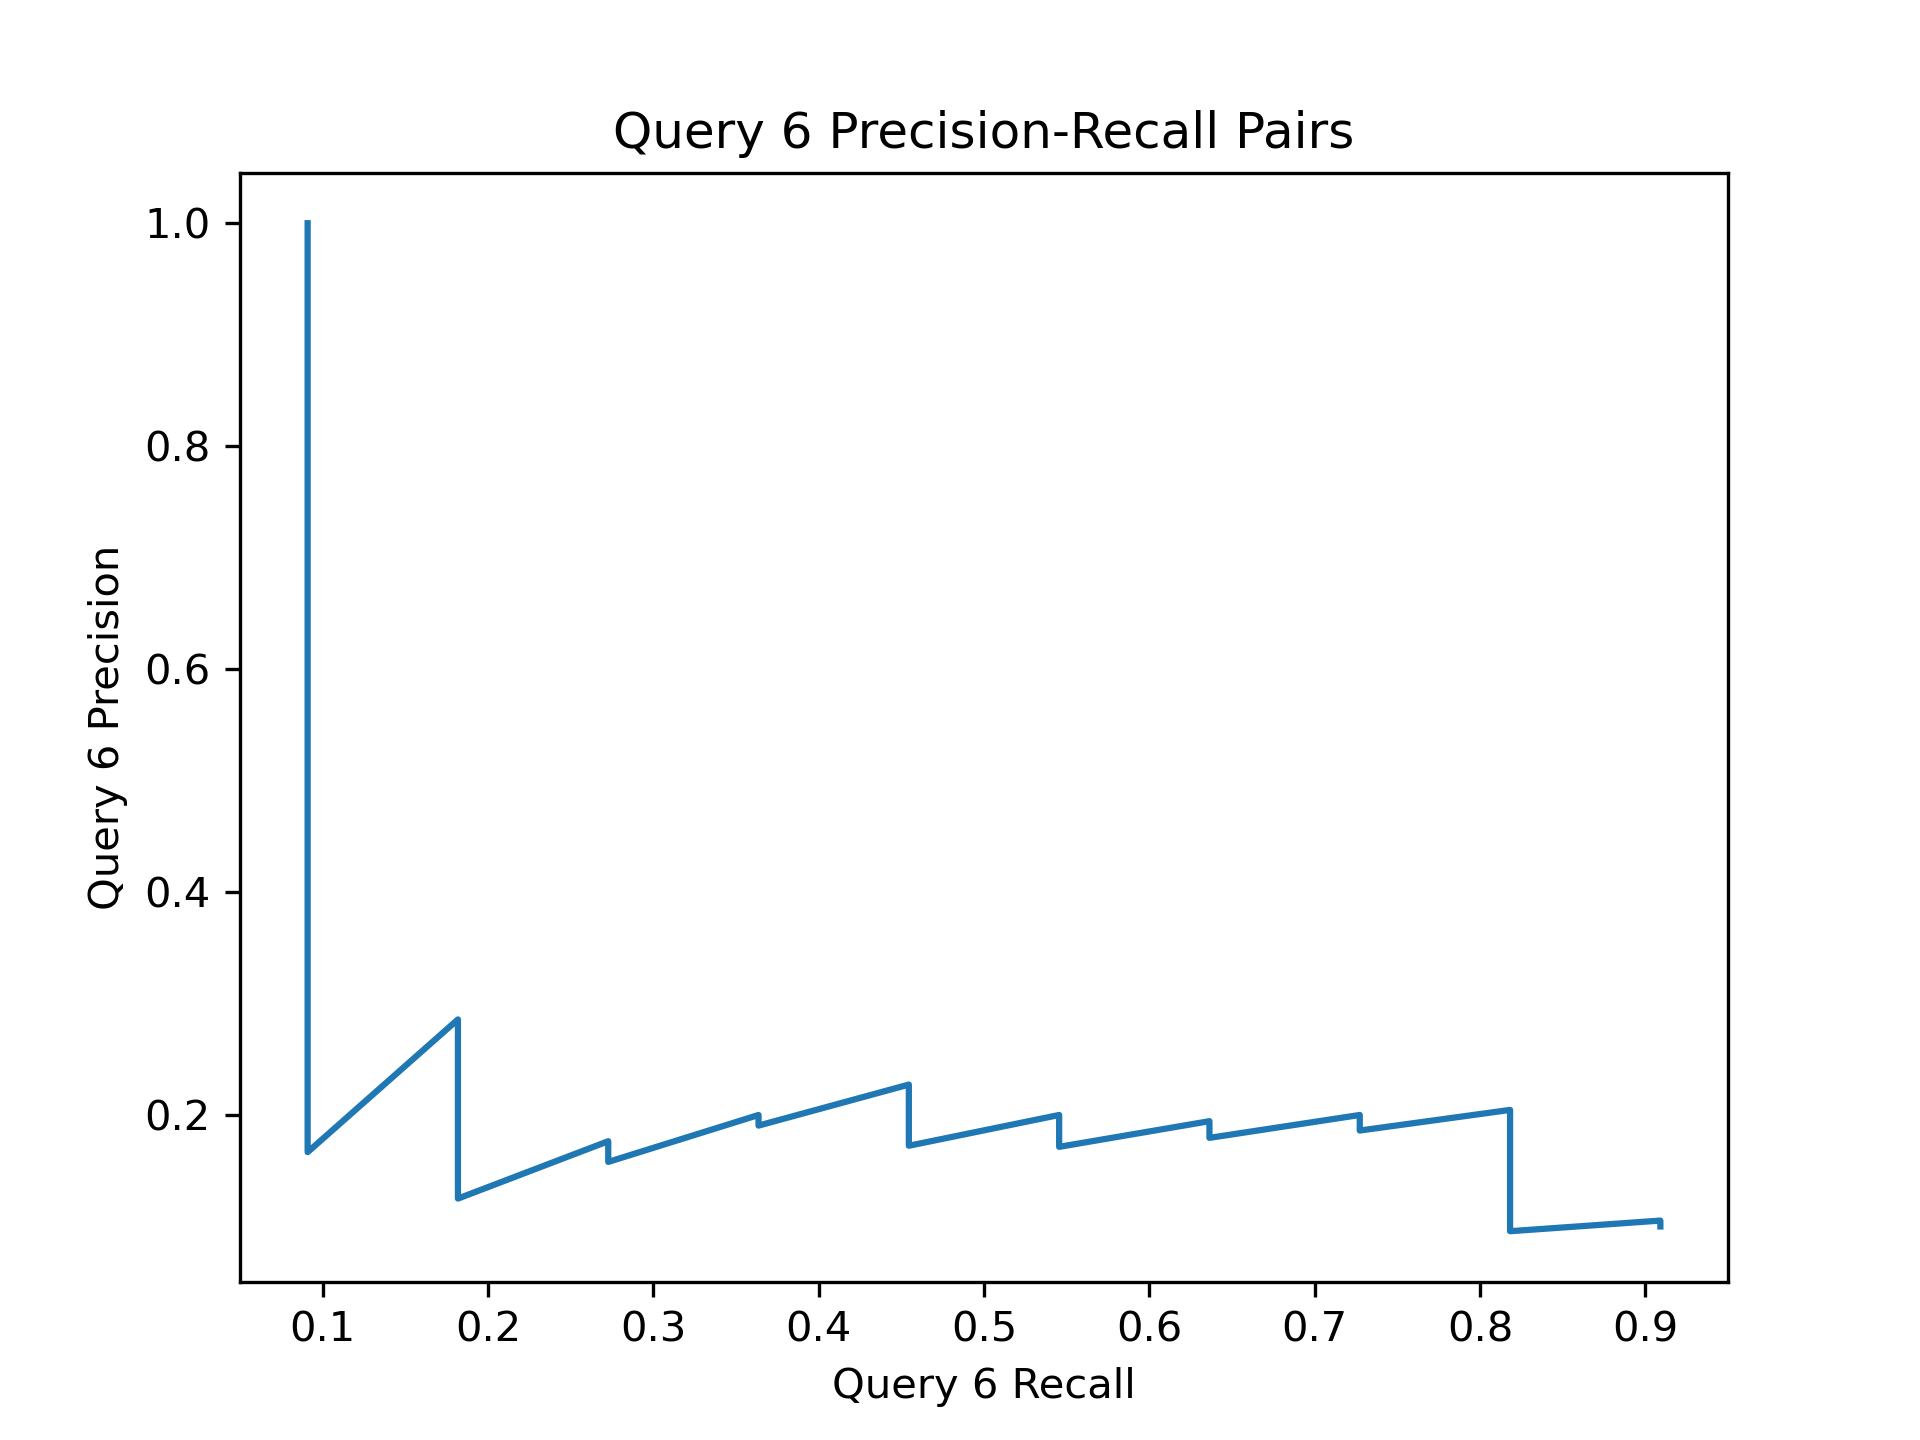
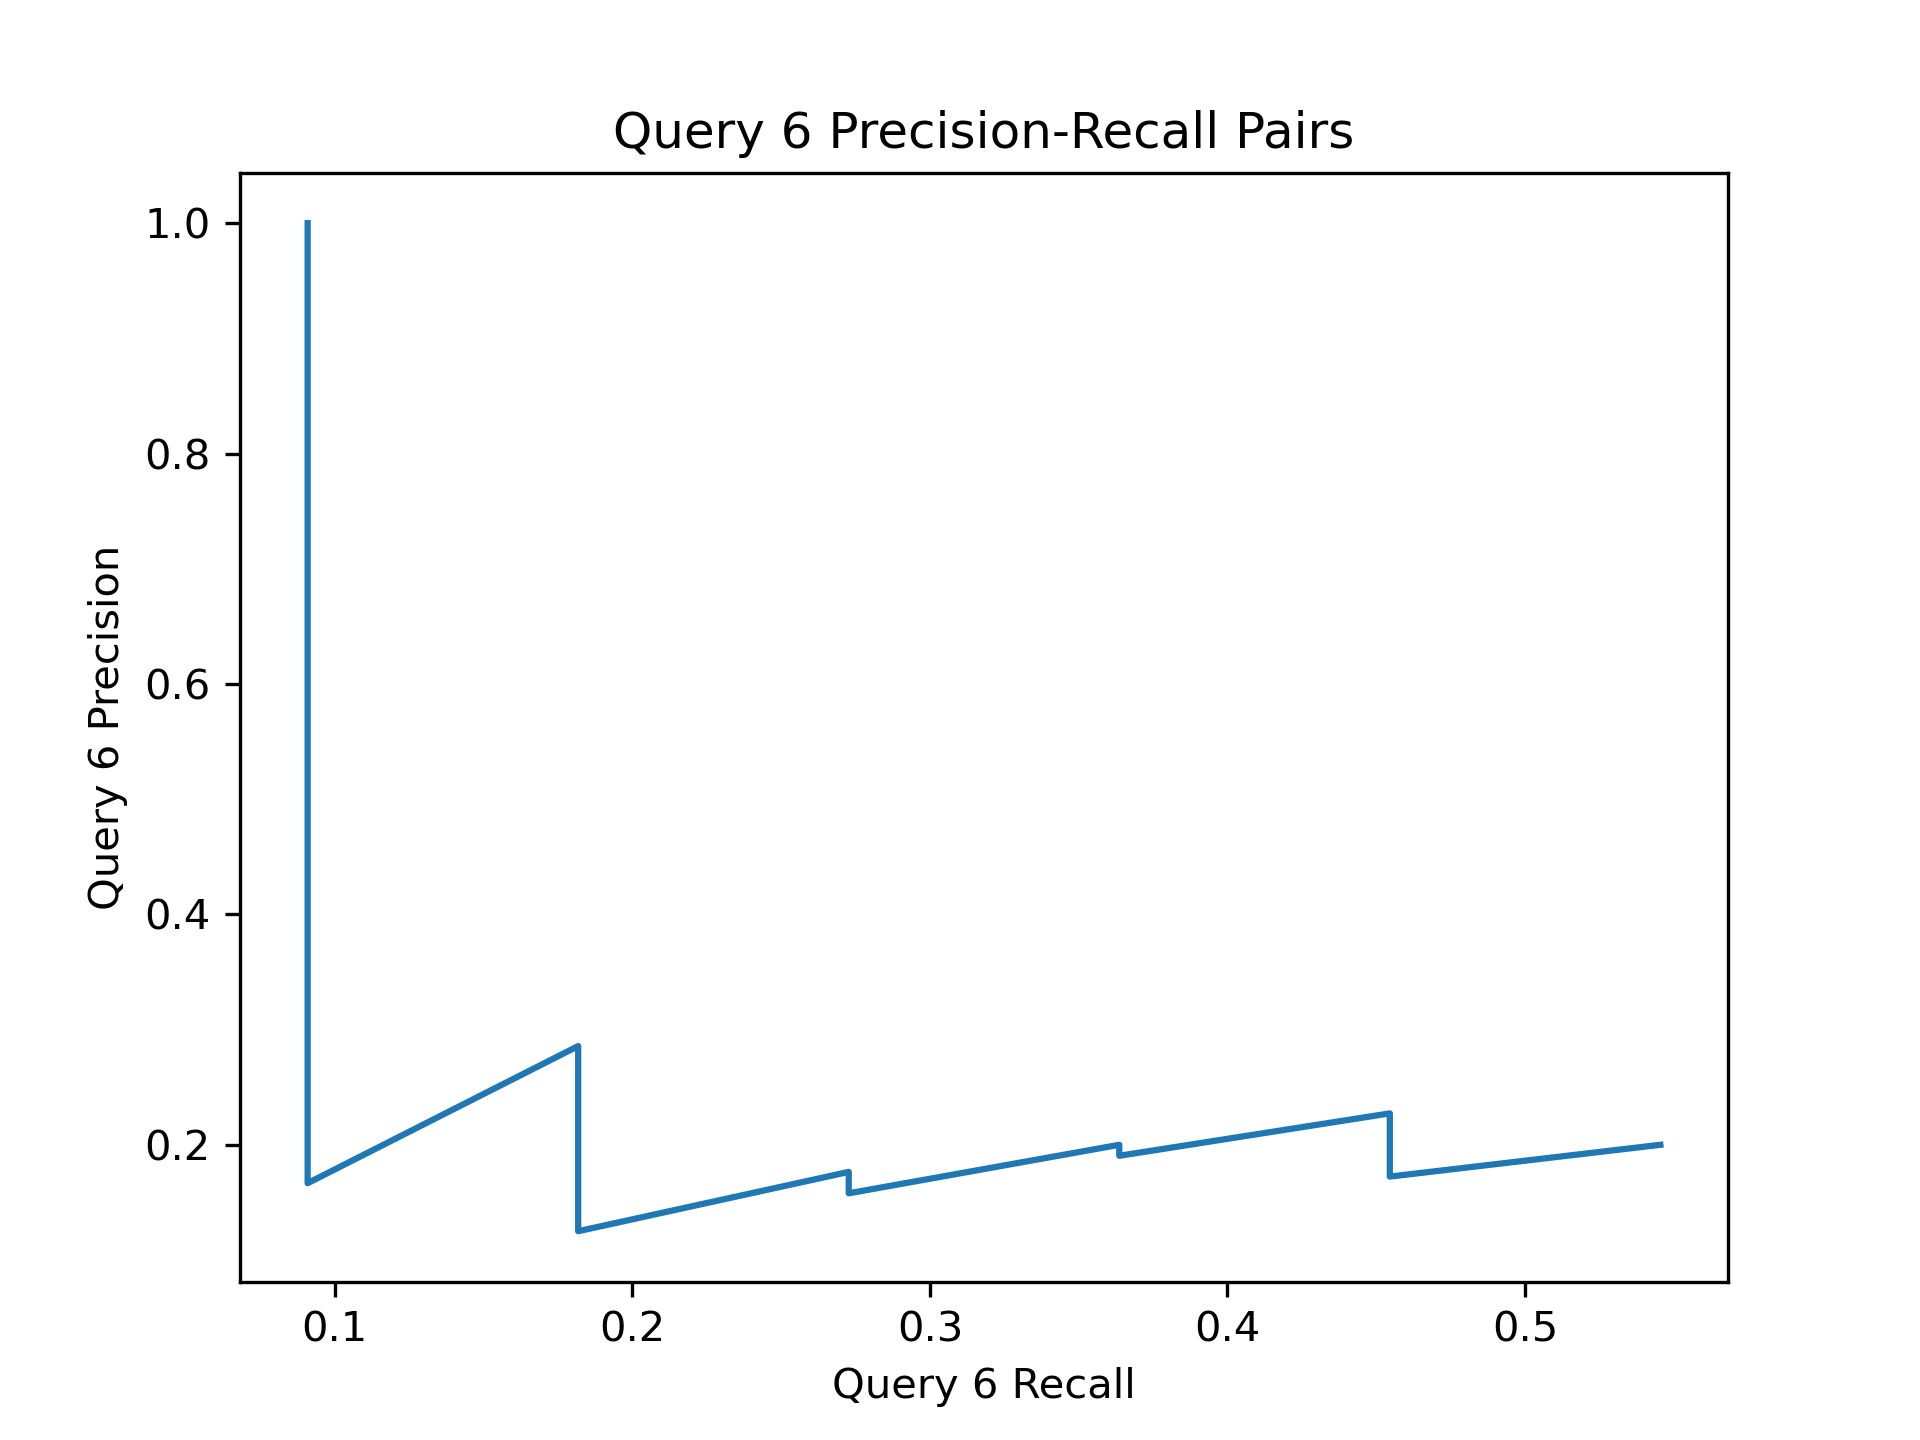
included mean average precision calculation

diff --git a/src/evaluate_train_qrels.py b/src/evaluate_train_qrels.py
@@ -79,7 +79,7 @@ class Evaluate:
         """This function calculates the confusion matrix for k top ranking documents."""
         # function does not calculate TN as not relevant in the calculations
         doc_ranking = self.searcher.retrieve_ranking(self.queries[query_id])
-        self.qrels = self.get_train_qrels()      
+        self.qrels = self.get_train_qrels()
 
         # take only the document id, rather than the score
         retrieved = [doc[0] for doc in doc_ranking[:self.k]]
@@ -91,6 +91,9 @@ class Evaluate:
         qrels_query = [qrel for qrel in self.qrels if qrel[0] == query_id]
         relevant_docs = [qrel[1] for qrel in qrels_query if qrel[-1] == 1]
 
+        # list, 1 when kth item is relevant, or 0 when it is not
+        rels = [int(x in retrieved_relevant) for x in retrieved]
+
         TP = len(retrieved_relevant)  # number of true positives
         FP = self.k - TP  # number of false positives
         if len(relevant_docs) == len(retrieved_relevant):
@@ -98,29 +101,29 @@ class Evaluate:
         else:
             FN = len(relevant_docs) - TP
 
-        return TP, FP, FN
+        return TP, FP, FN, rels
         
     def precision_at_k(self, query_id):
-        TP, FP, FN = self.confusion_matrix_at_k(query_id)
+        TP, FP, FN, rels = self.confusion_matrix_at_k(query_id)
         precision = TP / self.k
         return precision
     
     def print_precision_for_all_queries(self,):
         self.queries = self.get_queries()
         for query_id, query in self.queries.items():
-            TP, FP, FN = self.confusion_matrix_at_k(query_id)
+            TP, FP, FN, rels = self.confusion_matrix_at_k(query_id)
             precision = self.precision_at_k(query_id) 
             print(f'retrieved query "{query}" with precision @ {self.k}: {precision} (TP: {TP}, FP: {FP})')
 
     def recall_at_k(self, query_id):
-        TP, FP, FN = self.confusion_matrix_at_k(query_id)
+        TP, FP, FN, rels = self.confusion_matrix_at_k(query_id)
         recall = TP / (TP+FN)
         return recall
 
     def print_recall_for_all_queries(self,):
         self.queries = self.get_queries()
         for query_id, query in self.queries.items():
-            TP, FP, FN = self.confusion_matrix_at_k(query_id)
+            TP, FP, FN, rels = self.confusion_matrix_at_k(query_id)
             recall = self.recall_at_k(query_id) 
             print(f'retrieved query "{query}" with recall @ {self.k}: {recall} (TP: {TP}, FN: {FN})')
 
@@ -130,14 +133,20 @@ class Evaluate:
 
         all_query_precisions = []
         all_query_recalls = []
+        all_query_rels = []
+
         # loop to get precision and recall into big lists
         for query_id, query in self.queries.items():
+            TP,FP,FN, rels = self.confusion_matrix_at_k(query_id)
+            all_query_rels.append(rels)
+
             fake_k = self.k
             for i in range(fake_k):
                 self.k = i + 1
                 all_query_precisions.append(self.precision_at_k(query_id))
                 all_query_recalls.append(self.recall_at_k(query_id))
             self.k = fake_k
+        all_query_rels = np.array(all_query_rels).flatten().tolist()
         
         # calculate average precision and recall across all ks and all queries
         overall_average_precision = sum(all_query_precisions)/len(all_query_precisions)
@@ -147,9 +156,14 @@ class Evaluate:
 
         # create a dataframe of precision recall pairs by slicing the lists at each kth element
         df_all_queries = pd.DataFrame()
+        all_APs = []
         for i in range (len(self.queries)):
             df_all_queries[f'query{i+1}_precision'] = all_query_precisions[i*self.k : self.k*i+self.k]
             df_all_queries[f'query{i+1}_recall'] = all_query_recalls[i*self.k : self.k*i+self.k]
+            x = all_query_rels[i*self.k : self.k*i+self.k]
+            y = all_query_precisions[i*self.k : self.k*i+self.k]
+            AP = (np.multiply(x,y).sum())/sum(y)
+            all_APs.append(AP)
             #print(all_query_precisions[i*self.k : self.k*i+self.k])
         
         # select odd columns to calculate mean precision
@@ -157,6 +171,10 @@ class Evaluate:
         # select even columns to calculate mean recall
         df_all_queries['Average_recall_across_queries'] = df_all_queries.iloc[:, 1::2].mean(axis=1)
         df_all_queries.to_csv("../Files/sample.csv", index = True)
+
+        # caluclate overall Mean Averge Precision metric
+        mean_AP= sum(all_APs)/len(all_APs)
+        print(f'the mean average precision for all queries is {round(mean_AP,3)}') 
 
         # create individual precision-recall plots for each query
         for i in range (len(self.queries)):
@@ -180,5 +198,5 @@ class Evaluate:
         self.plot_precision_recall_pairs()
         return 
 
-evaulate = Evaluate(k = 100)
+evaulate = Evaluate(k = 30)
 evaulate.evaluate()
